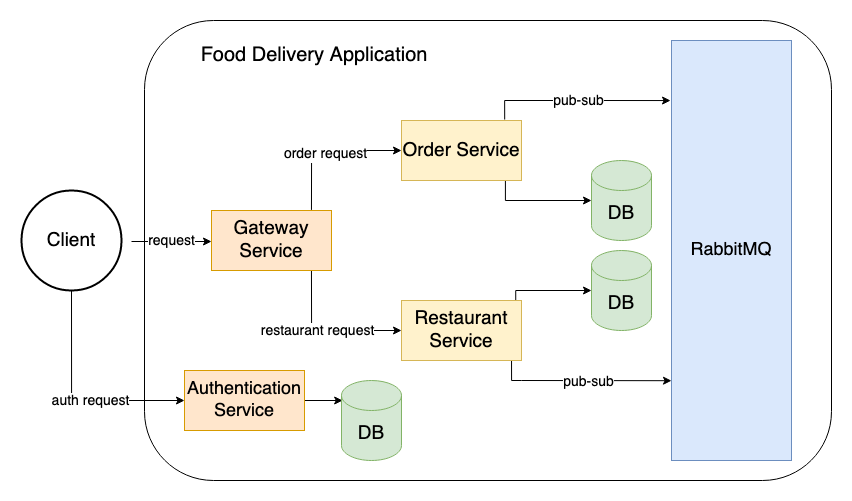
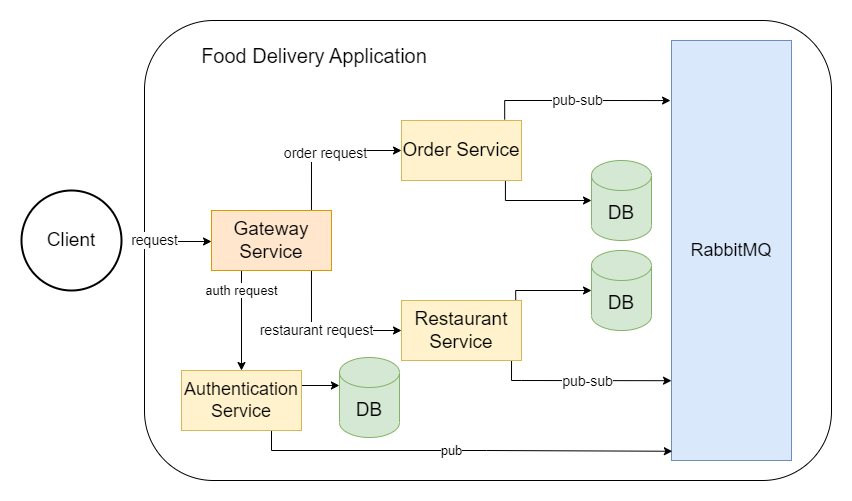
included authentication requests in gateway service

diff --git a/micro-gateway/src/main/java/io/github/gustavosdelgado/microgateway/filter/GlobalFilterImpl.java b/micro-gateway/src/main/java/io/github/gustavosdelgado/microgateway/filter/GlobalFilterImpl.java
@@ -1,6 +1,8 @@
 package io.github.gustavosdelgado.microgateway.filter;
 
 import java.time.Clock;
+import java.util.Arrays;
+import java.util.HashSet;
 import java.util.Optional;
 import java.util.UUID;
 
@@ -12,6 +14,7 @@ import org.springframework.cloud.gateway.filter.GlobalFilter;
 import org.springframework.core.Ordered;
 import org.springframework.http.HttpHeaders;
 import org.springframework.http.HttpStatus;
+import org.springframework.http.server.RequestPath;
 import org.springframework.http.server.reactive.ServerHttpResponse;
 import org.springframework.stereotype.Component;
 import org.springframework.web.server.ServerWebExchange;
@@ -31,9 +34,21 @@ public class GlobalFilterImpl implements GlobalFilter, Ordered {
     @Value("${api.security.token.secret}")
     private String secret;
 
+    private final HashSet<String> authorizedEndpoints = new HashSet<>(Arrays.asList("/authenticate", "/user"));
+
     @Override
     public Mono<Void> filter(ServerWebExchange exchange, GatewayFilterChain chain) {
         HttpHeaders headers = exchange.getRequest().getHeaders();
+        RequestPath path = exchange.getRequest().getPath();
+
+        if (authorizedEndpoints.contains(path.value())) {
+            addRequestId(exchange);
+            logger.info("Authentication request, forwarding...");
+            return chain.filter(exchange)
+                    .then(Mono.fromRunnable(() -> {
+                        logger.info("Global Post Filter executed");
+                    }));
+        }
 
         if (!headers.containsKey("Authorization")) {
             logger.info("Authorization header absent.");

diff --git a/micro-gateway/src/main/java/io/github/gustavosdelgado/microgateway/config/UriConfiguration.java b/micro-gateway/src/main/java/io/github/gustavosdelgado/microgateway/config/UriConfiguration.java
@@ -5,9 +5,11 @@ import org.springframework.boot.context.properties.ConfigurationProperties;
 @ConfigurationProperties
 class UriConfiguration {
 
-    private String restaurantUri = "http://restaurant:8081";
+    private final String restaurantUri = "http://restaurant:8081";
 
-    private String orderUri = "http://order:8181";
+    private final String orderUri = "http://order:8181";
+
+    private final String authUri = "http://auth:9000";
 
     public String getRestaurantUri() {
         return restaurantUri;
@@ -15,6 +17,10 @@ class UriConfiguration {
 
     public String getOrderUri() {
         return orderUri;
+    }
+
+    public String getAuthUri() {
+        return authUri;
     }
 
 }

diff --git a/micro-gateway/src/main/java/io/github/gustavosdelgado/microgateway/config/RoutesConfig.java b/micro-gateway/src/main/java/io/github/gustavosdelgado/microgateway/config/RoutesConfig.java
@@ -26,6 +26,12 @@ public class RoutesConfig {
 				.route("order_query", p -> p
 						.path("/order")
 						.uri(uriConfiguration.getOrderUri()))
+				.route("auth", p -> p
+						.path("/authenticate")
+						.uri(uriConfiguration.getAuthUri()))
+				.route("user", p -> p
+						.path("/user")
+						.uri(uriConfiguration.getAuthUri()))
                 .build();
     }
 
